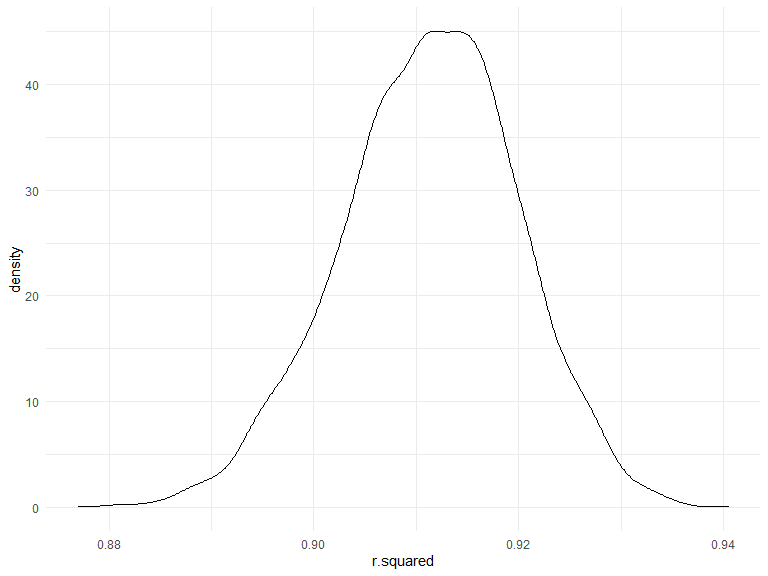
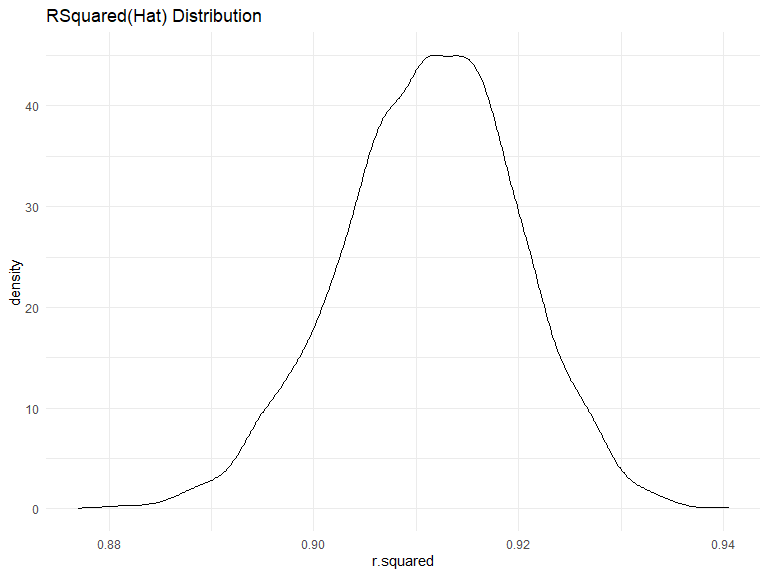
plot labels

diff --git a/p8105_hw6_kpr2118.md b/p8105_hw6_kpr2118.md
@@ -491,7 +491,10 @@ Plot the distribution of these estimates…
 rsquarehat_p = 
   bs_max_min_results %>% 
     ggplot(aes(x = r.squared)) +
-    geom_density()
+    geom_density() + 
+    labs(
+      title = "RSquared(Hat) Distribution"
+    )
 
 rsquarehat_p
 ```
@@ -506,7 +509,10 @@ which indicates normality.
 log_p = 
   bs_max_min_results %>% 
   ggplot(aes(x = log_beta0_beta1)) +
-  geom_density()
+  geom_density() + 
+  labs(
+    title = "Log(Beta0(hat) * Beta1(hat)) Distribution"
+  )
 
 log_p
 ```
@@ -515,7 +521,8 @@ log_p
 
 For the log of beta0(hat)\*beta1(hat), the distribution is also bell
 shaped but peaks at 2.02 and ranges from 1.925 and 2.10. This plot also
-has a normal looking distribution.
+has a normal looking distribution (but slightly less curved than the
+rsquared(hat) plot.
 
 Using the estimates, identify the 2.5% and 97.5% quantities to provide a
 95% confidence interval for rsquaredhat and log of beta0hat and
